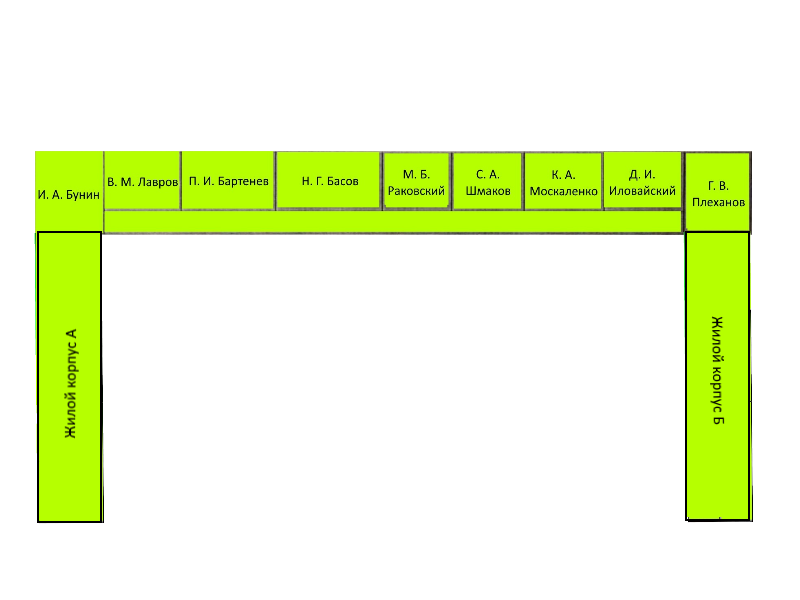
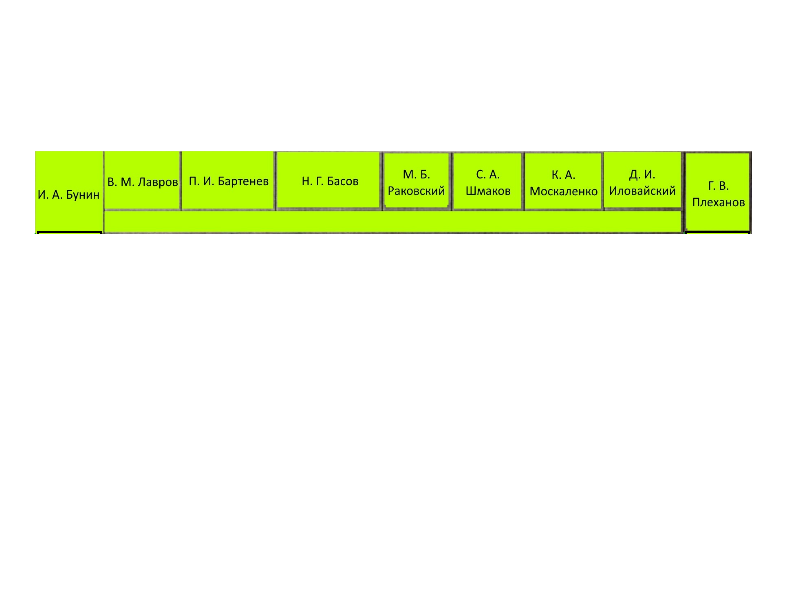
Initial commit

Changed region(s): [[0.0312, 0.39, 0.1562, 0.87], [0.8438, 0.39, 0.9688, 0.87]]

diff --git a/third_floor.html b/third_floor.html
@@ -18,6 +18,6 @@
 </font>
 <p><a href = "map.html"><img src = "images/button_back.png" width = "150" height = "75"></a></p>
 <img src = "images/third_floor.png" usemap = "#karta">
-<map name="karta"> <area  href = "корпус-а-3.html"  shape="rect" coords="27,205,94,491"> <area  href = "корпус-б-3.html"  shape="rect" coords="704,205,772,491"> <area  href = "актовый-зал.html"  shape="rect" coords="24,103,94,200"> <area  href = "коцарь.html"  shape="rect" coords="98,103,175,172"> <area  href = "быханов.html"  shape="rect" coords="177,103,274,171"> <area  href = "бобровский.html"  shape="rect" coords="276,104,388,170"> <area  href = "кабинет-психолога.html"  shape="rect" coords="389,103,457,170"> <area  href = "лодыгин.html"  shape="rect" coords="461,103,533,168"> <area  href = "семенов-тян-шанский.html"  shape="rect" coords="536,103,619,168"> <area  href = "бойко.html"  shape="rect" coords="623,104,703,170"> <area  href = "конференц-зал.html"  shape="rect" coords="706,103,774,197"> </map>
+<map name="karta"> <area  href = "актовый-зал.html"  shape="rect" coords="24,103,94,200"> <area  href = "коцарь.html"  shape="rect" coords="98,103,175,172"> <area  href = "быханов.html"  shape="rect" coords="177,103,274,171"> <area  href = "бобровский.html"  shape="rect" coords="276,104,388,170"> <area  href = "кабинет-психолога.html"  shape="rect" coords="389,103,457,170"> <area  href = "лодыгин.html"  shape="rect" coords="461,103,533,168"> <area  href = "семенов-тян-шанский.html"  shape="rect" coords="536,103,619,168"> <area  href = "бойко.html"  shape="rect" coords="623,104,703,170"> <area  href = "конференц-зал.html"  shape="rect" coords="706,103,774,197"> </map>
 </body>
 </html>

diff --git a/second_floor.html b/second_floor.html
@@ -18,6 +18,6 @@
 </font>
 <p><a href = "map.html"><img src = "images/button_back.png" width = "150" height = "75"></a></p>
 <img src = "images/second_floor.png" usemap = "#karta">
-<map name="karta"> <area  href = "бунин.html"  shape="rect" coords="35,152,102,232"> <area  href = "корпус-а-2.html"  shape="rect" coords="37,231,101,520"> <area  href = "корпус-б-2.html"  shape="rect" coords="685,233,748,519"> <area  href = "плеханов.html"  shape="rect" coords="684,152,750,232"> <area  href = "лавров.html"  shape="rect" coords="104,151,179,210"> <area  href = "бартенев.html"  shape="rect" coords="180,151,274,210"> <area  href = "басов.html"  shape="rect" coords="274,153,378,210"> <area  href = "раковский.html"  shape="rect" coords="383,152,449,209"> <area  href = "шмаков.html"  shape="rect" coords="451,152,523,210"> <area  href = "москаленко.html"  shape="rect" coords="524,152,603,210"> <area  href = "иловайский.html"  shape="rect" coords="603,152,682,210"> </map>
+<map name="karta"> <area  href = "бунин.html"  shape="rect" coords="35,152,102,232"> <area  href = "плеханов.html"  shape="rect" coords="684,152,750,232"> <area  href = "лавров.html"  shape="rect" coords="104,151,179,210"> <area  href = "бартенев.html"  shape="rect" coords="180,151,274,210"> <area  href = "басов.html"  shape="rect" coords="274,153,378,210"> <area  href = "раковский.html"  shape="rect" coords="383,152,449,209"> <area  href = "шмаков.html"  shape="rect" coords="451,152,523,210"> <area  href = "москаленко.html"  shape="rect" coords="524,152,603,210"> <area  href = "иловайский.html"  shape="rect" coords="603,152,682,210"> </map>
 </body>
 </html>
